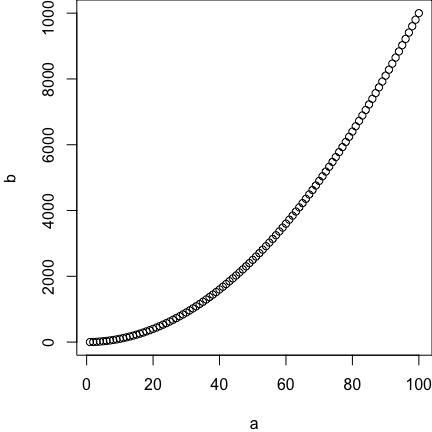
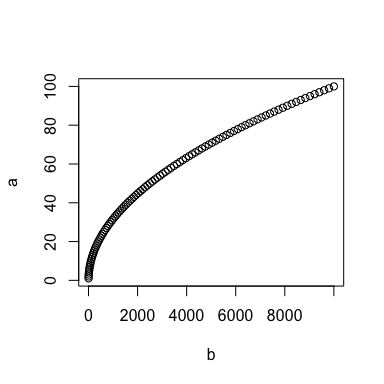
amodification figures plots

diff --git a/QCBS R Workshops/Workshop 1/QCBS-R-Revamping-Slides.html b/QCBS R Workshops/Workshop 1/QCBS-R-Revamping-Slides.html
@@ -521,12 +521,12 @@ Website: <a href="http://qcbs.ca/wiki/r/workshop1" class="uri">http://qcbs.ca/wi
 </section><section id="why-use-r-2" class="slide level2">
 <h2>Why use R?</h2>
 <p>What people have traditionally done to analyze their data:</p>
-<div id="htmlwidget-84cab9a3be910256ff01" style="width:768px;height:576px;" class="grViz html-widget"></div>
-<script type="application/json" data-for="htmlwidget-84cab9a3be910256ff01">{"x":{"diagram":"\n      digraph {\n\n      node [shape = oval, fillcolor = PaleTuruoise]\n      Data; Graphs; Tables; Statistics\n\n      node [shape = box]\n      Sigmaplot; Excel; SAS\n\n      ##add arrows\n      edge [arrowhead = none]\n      Data -> Sigmaplot; Data -> Excel; Data -> SAS;\n\n      edge [arrowhead = normal]\n      Sigmaplot -> Graphs; Excel -> Tables; SAS -> Statistics;\n\n      }","config":{"engine":"dot","options":null}},"evals":[],"jsHooks":[]}</script>
+<div id="htmlwidget-0a740240d937469198f4" style="width:768px;height:576px;" class="grViz html-widget"></div>
+<script type="application/json" data-for="htmlwidget-0a740240d937469198f4">{"x":{"diagram":"\n      digraph {\n\n      node [shape = oval, fillcolor = PaleTuruoise]\n      Data; Graphs; Tables; Statistics\n\n      node [shape = box]\n      Sigmaplot; Excel; SAS\n\n      ##add arrows\n      edge [arrowhead = none]\n      Data -> Sigmaplot; Data -> Excel; Data -> SAS;\n\n      edge [arrowhead = normal]\n      Sigmaplot -> Graphs; Excel -> Tables; SAS -> Statistics;\n\n      }","config":{"engine":"dot","options":null}},"evals":[],"jsHooks":[]}</script>
 </section><section id="why-use-r-3" class="slide level2">
 <h2>Why use R?</h2>
-<div id="htmlwidget-df29fe075522a92f5ff8" style="width:768px;height:576px;" class="grViz html-widget"></div>
-<script type="application/json" data-for="htmlwidget-df29fe075522a92f5ff8">{"x":{"diagram":"\n      digraph {\n\n      node [shape = oval, fillcolor = PaleTuruoise]\n      Data; Graphs; Tables; Statistics\n\n      node [shape = box]\n      R\n\n      ##add arrows\n      edge [arrowhead = none]\n      Data -> R;\n\n      edge [arrowhead = normal]\n      R -> Graphs; R -> Tables; R -> Statistics;\n\n      }","config":{"engine":"dot","options":null}},"evals":[],"jsHooks":[]}</script>
+<div id="htmlwidget-ee460b4c3f2f9416f38a" style="width:768px;height:576px;" class="grViz html-widget"></div>
+<script type="application/json" data-for="htmlwidget-ee460b4c3f2f9416f38a">{"x":{"diagram":"\n      digraph {\n\n      node [shape = oval, fillcolor = PaleTuruoise]\n      Data; Graphs; Tables; Statistics\n\n      node [shape = box]\n      R\n\n      ##add arrows\n      edge [arrowhead = none]\n      Data -> R;\n\n      edge [arrowhead = normal]\n      R -> Graphs; R -> Tables; R -> Statistics;\n\n      }","config":{"engine":"dot","options":null}},"evals":[],"jsHooks":[]}</script>
 <p>R allows you to do everything with one program, which is nice!</p>
 </section><section id="why-use-r-4" class="slide level2">
 <h2>Why use R?</h2>
@@ -1137,7 +1137,7 @@ Open Rstudio
 </section><section id="challenge-10-solution" class="slide level2">
 <h2>Challenge 10: Solution <img style="float: right; margin: 0px 0px 5px 55px;" src="images/rubicub.png"  width="150" /></h2>
 <div class="fragment">
-<p>Part a):</p>
+<p>Part a)</p>
 </div>
 <div class="fragment">
 <pre><code> my.first.df$num.sp * num.vector[c(1:4)]</code></pre>
@@ -1152,7 +1152,7 @@ Open Rstudio
 </code></pre>
 </div>
 <div class="fragment">
-<p>Part b):</p>
+<p>Part b)</p>
 </div>
 <div class="fragment">
 <pre><code> (my.first.df$num.sp * num.vector[c(1:4)]) > 25</code></pre>
@@ -1222,26 +1222,22 @@ Open Rstudio
 <p><img src="QCBS-R-Revamping-Slides_files/figure-revealjs/unnamed-chunk-58-1.png" /><!-- --></p>
 </section><section id="challenge-12-solution" class="slide level2">
 <h2>Challenge 12: Solution <img style="float: right; margin: 0px 0px 5px 55px;" src="images/rubicub.png"  width="150" /></h2>
-<div class="sourceCode"><pre class="sourceCode r"><code class="sourceCode r">  <span class="kw">par</span>(<span class="dt">mar =</span> <span class="kw">c</span>(<span class="dv">4</span>,<span class="dv">4</span>,<span class="dv">0</span>,<span class="dv">0</span>))
-  <span class="kw">plot</span>(a,b)</code></pre></div>
-<p><img src="QCBS-R-Revamping-Slides_files/figure-revealjs/unnamed-chunk-59-1.png" /><!-- --></p>
+<div class="sourceCode"><pre class="sourceCode r"><code class="sourceCode r">  <span class="kw">plot</span>(a,b)</code></pre></div>
+<p><img src="QCBS-R-Revamping-Slides_files/figure-revealjs/unnamed-chunk-60-1.png" /><!-- --></p>
 </section><section id="challenge-12-solution-1" class="slide level2">
 <h2>Challenge 12: Solution <img style="float: right; margin: 0px 0px 5px 55px;" src="images/rubicub.png"  width="150" /></h2>
-<div class="sourceCode"><pre class="sourceCode r"><code class="sourceCode r">  <span class="kw">par</span>(<span class="dt">mar =</span> <span class="kw">c</span>(<span class="dv">4</span>,<span class="dv">4</span>,<span class="dv">0</span>,<span class="dv">0</span>))
-  <span class="kw">plot</span>(b,a)</code></pre></div>
-<p><img src="QCBS-R-Revamping-Slides_files/figure-revealjs/unnamed-chunk-60-1.png" /><!-- --></p>
+<div class="sourceCode"><pre class="sourceCode r"><code class="sourceCode r">  <span class="kw">plot</span>(b,a)</code></pre></div>
+<p><img src="QCBS-R-Revamping-Slides_files/figure-revealjs/unnamed-chunk-62-1.png" /><!-- --></p>
 <p>The shape of the plot has changed, as we did not provided the arguments names, the order is important.</p>
 </section><section id="challenge-12-solution-2" class="slide level2">
 <h2>Challenge 12: Solution <img style="float: right; margin: 0px 0px 5px 55px;" src="images/rubicub.png"  width="150" /></h2>
-<div class="sourceCode"><pre class="sourceCode r"><code class="sourceCode r">  <span class="kw">par</span>(<span class="dt">mar =</span> <span class="kw">c</span>(<span class="dv">4</span>,<span class="dv">4</span>,<span class="dv">0</span>,<span class="dv">0</span>))
-  <span class="kw">plot</span>(<span class="dt">x =</span> a, <span class="dt">y =</span> b)</code></pre></div>
-<p><img src="QCBS-R-Revamping-Slides_files/figure-revealjs/unnamed-chunk-61-1.png" /><!-- --></p>
+<div class="sourceCode"><pre class="sourceCode r"><code class="sourceCode r">  <span class="kw">plot</span>(<span class="dt">x =</span> a, <span class="dt">y =</span> b)</code></pre></div>
+<p><img src="QCBS-R-Revamping-Slides_files/figure-revealjs/unnamed-chunk-64-1.png" /><!-- --></p>
 <p>Same as <code>plot(a,b)</code></p>
 </section><section id="challenge-12-solution-3" class="slide level2">
 <h2>Challenge 12: Solution <img style="float: right; margin: 0px 0px 5px 55px;" src="images/rubicub.png"  width="150" /></h2>
-<div class="sourceCode"><pre class="sourceCode r"><code class="sourceCode r">  <span class="kw">par</span>(<span class="dt">mar =</span> <span class="kw">c</span>(<span class="dv">4</span>,<span class="dv">4</span>,<span class="dv">0</span>,<span class="dv">0</span>))
-  <span class="kw">plot</span>(<span class="dt">y =</span> b, <span class="dt">x =</span> a)</code></pre></div>
-<p><img src="QCBS-R-Revamping-Slides_files/figure-revealjs/unnamed-chunk-62-1.png" /><!-- --></p>
+<div class="sourceCode"><pre class="sourceCode r"><code class="sourceCode r">  <span class="kw">plot</span>(<span class="dt">y =</span> b, <span class="dt">x =</span> a)</code></pre></div>
+<p><img src="QCBS-R-Revamping-Slides_files/figure-revealjs/unnamed-chunk-66-1.png" /><!-- --></p>
 <p>Same as <code>plot(a,b)</code>. The argument names are provided, the order is not important.</p>
 </section><section id="packages" class="slide level2">
 <h2>Packages</h2>
@@ -1266,7 +1262,7 @@ Open Rstudio
 <h2>Package name: an example</h2>
 <div class="sourceCode"><pre class="sourceCode r"><code class="sourceCode r">  <span class="kw">library</span>(ggplot2)
   <span class="kw">qplot</span>(<span class="dv">1</span>:<span class="dv">10</span>, <span class="dv">1</span>:<span class="dv">10</span>)</code></pre></div>
-<p><img src="QCBS-R-Revamping-Slides_files/figure-revealjs/unnamed-chunk-69-1.png" /><!-- --></p>
+<p><img src="QCBS-R-Revamping-Slides_files/figure-revealjs/unnamed-chunk-73-1.png" /><!-- --></p>
 </section></section>
 <section><section id="getting-help" class="titleslide slide level1"><h1>Getting help</h1></section><section id="searching-for-functions" class="slide level2">
 <h2>Searching for functions</h2>
